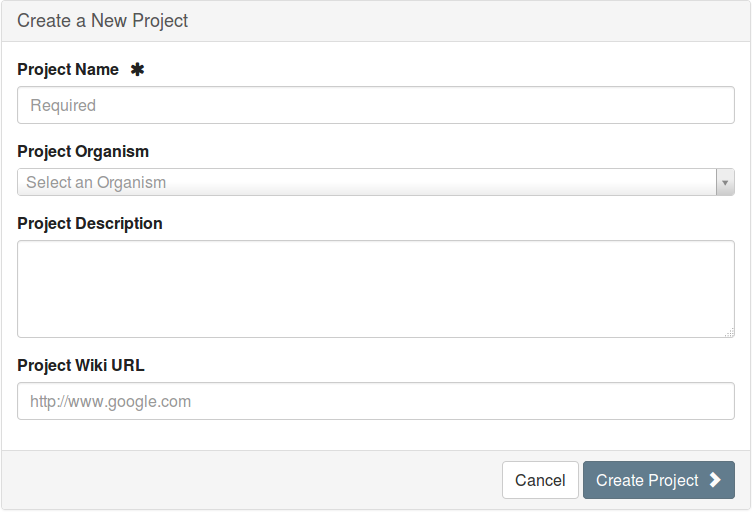
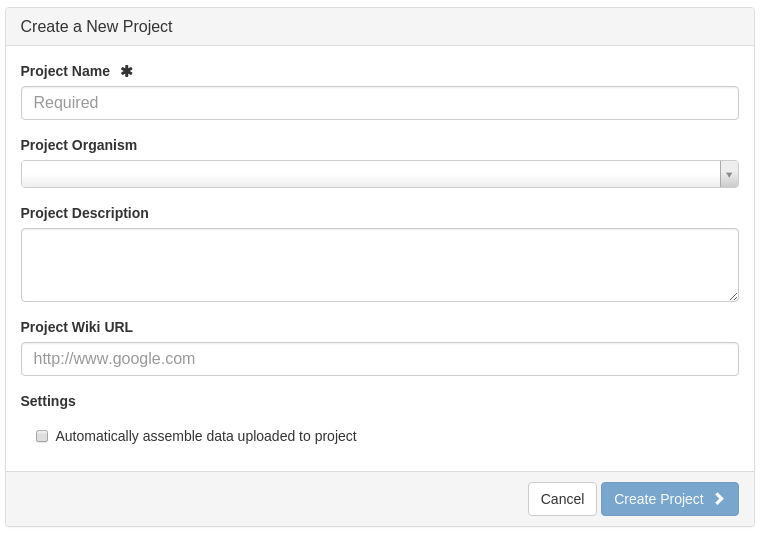
added assembly checkbox to create project

diff --git a/src/main/webapp/pages/projects/project_new.html b/src/main/webapp/pages/projects/project_new.html
@@ -79,6 +79,18 @@
                         <small id="error-url-server" th:if="${#maps.containsKey(errors, 'remoteURL')}"
                                th:text="${errors.remoteURL}"></small>
                     </div>
+                    <div class="form-group">
+                            <label class="control-label" th:text="#{projects.create.settings}">_Settings_</label>
+
+                            <div class="col-md-12">
+                                <div class="checkbox">
+                                    <label for="assemble">
+                                        <input type="checkbox" id="assemble" name="assemble" value="true"/>
+                                        <span th:text="#{projects.create.settings.assemble}">_Assemble_</span>
+                                    </label>
+                                </div>
+                            </div>
+                        </div>
                 </div>
                 <div class="panel-footer text-right">
                     <a class="btn btn-default" th:href="${#httpServletRequest.getHeader('referer')}"

diff --git a/src/main/java/ca/corefacility/bioinformatics/irida/ria/web/projects/ProjectsController.java b/src/main/java/ca/corefacility/bioinformatics/irida/ria/web/projects/ProjectsController.java
@@ -281,18 +281,21 @@ public class ProjectsController {
 	}
 
 	/**
-	 * Creates a new project and displays a list of users for the user to add to the project
+	 * Creates a new project and displays a list of users for the user to add to
+	 * the project
 	 *
 	 * @param model
-	 * 		{@link Model}
+	 *            {@link Model}
 	 * @param name
-	 * 		String name of the project
+	 *            String name of the project
 	 * @param organism
-	 * 		Organism name
+	 *            Organism name
 	 * @param projectDescription
-	 * 		Brief description of the project
+	 *            Brief description of the project
 	 * @param remoteURL
-	 * 		URL for the project wiki
+	 *            URL for the project wiki
+	 * @param assemble
+	 *            Enable or disable automated assemblies
 	 *
 	 * @return The name of the add users to project page
 	 */
@@ -300,12 +303,15 @@ public class ProjectsController {
 	public String createNewProject(final Model model, @RequestParam(required = false, defaultValue = "") String name,
 			@RequestParam(required = false, defaultValue = "") String organism,
 			@RequestParam(required = false, defaultValue = "") String projectDescription,
-			@RequestParam(required = false, defaultValue = "") String remoteURL) {
+			@RequestParam(required = false, defaultValue = "") String remoteURL,
+			@RequestParam(required = false, defaultValue = "false") boolean assemble) {
 
 		Project p = new Project(name);
 		p.setOrganism(organism);
 		p.setProjectDescription(projectDescription);
 		p.setRemoteURL(remoteURL);
+		p.setAssembleUploads(assemble);
+
 		Project project;
 		try {
 			project = projectService.create(p);

diff --git a/src/test/java/ca/corefacility/bioinformatics/irida/ria/unit/web/projects/ProjectsControllerTest.java b/src/test/java/ca/corefacility/bioinformatics/irida/ria/unit/web/projects/ProjectsControllerTest.java
@@ -168,7 +168,7 @@ public class ProjectsControllerTest {
 		// Test creating project
 		when(projectService.create(any(Project.class))).thenReturn(project);
 		when(projectService.update(eq(project.getId()), anyMap())).thenReturn(project);
-		String page = controller.createNewProject(model, projectName, "", "", "");
+		String page = controller.createNewProject(model, projectName, "", "", "", false);
 		assertEquals("Returns the correct redirect to the collaborators page", "redirect:/projects/" + projectId
 				+ "/metadata", page);
 	}

diff --git a/doc/_includes/tutorials/common/creating-a-project.md b/doc/_includes/tutorials/common/creating-a-project.md
@@ -14,6 +14,8 @@ If you choose to set a project organism, click on the "Select an Organism" drop-
 
 The organism names are derived from the [NCBI taxonomy database](http://www.ncbi.nlm.nih.gov/taxonomy).
 
+To enable automated assemblies for the project, check the "Automatically assemble data uploaded to project" box.  This setting will perform an assembly on all sequence files uploaded to this project.  For more information about automated assemblies see the [samples documentation](../samples/#viewing-automated-assemblies).
+
 When you've finished entering the details for your new project, click on the "Create Project" button. You will be redirected to the projects list.
 
 IRIDA will automatically generate a numeric project identifier for your project. The project identifier is used by external tools for uploading sequencing data to IRIDA. The project identifier can be found in the ["Project Details" panel]({{ site.baseurl }}/user/user/project/index.html#viewing-project-details), or in the [projects list]({{ site.baseurl }}/user/user/project/index.html#viewing-existing-projects).

diff --git a/doc/user/user/project/index.md b/doc/user/user/project/index.md
@@ -65,7 +65,8 @@ You can see which filters are currently applied to the table under the filter bu
 
 Clicking on the filters will clear that specific filter.
 
-### Creating a new project
+Creating a new project
+----------------------
 
 {% include tutorials/common/creating-a-project.md %}
 
